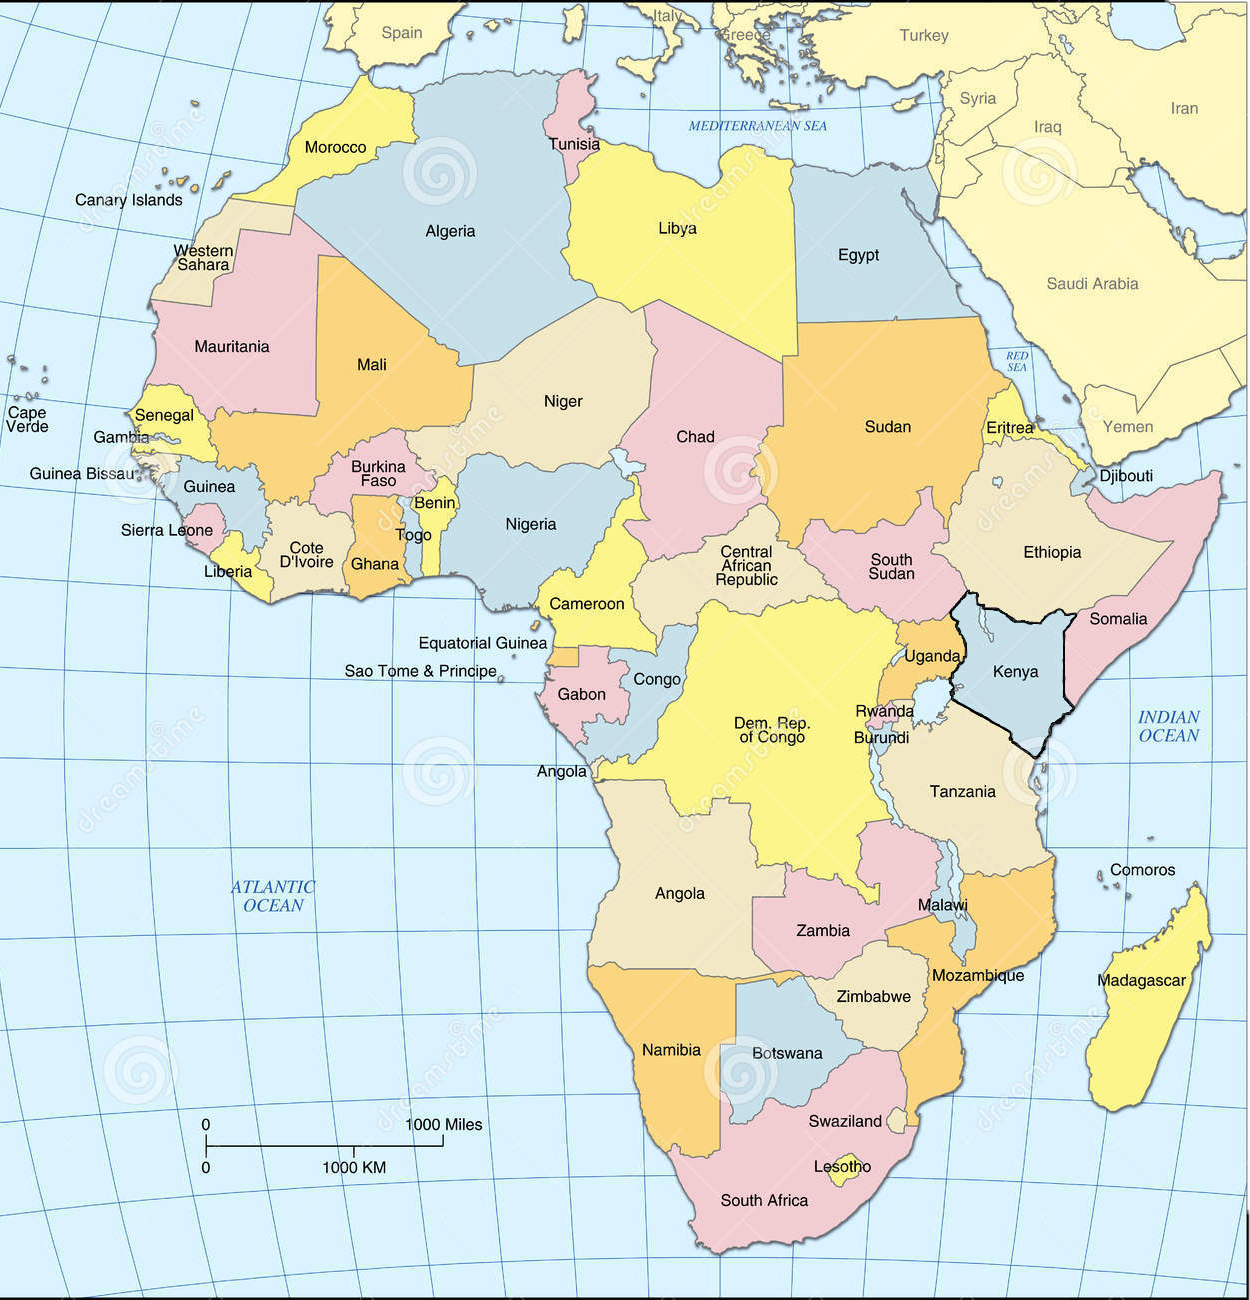
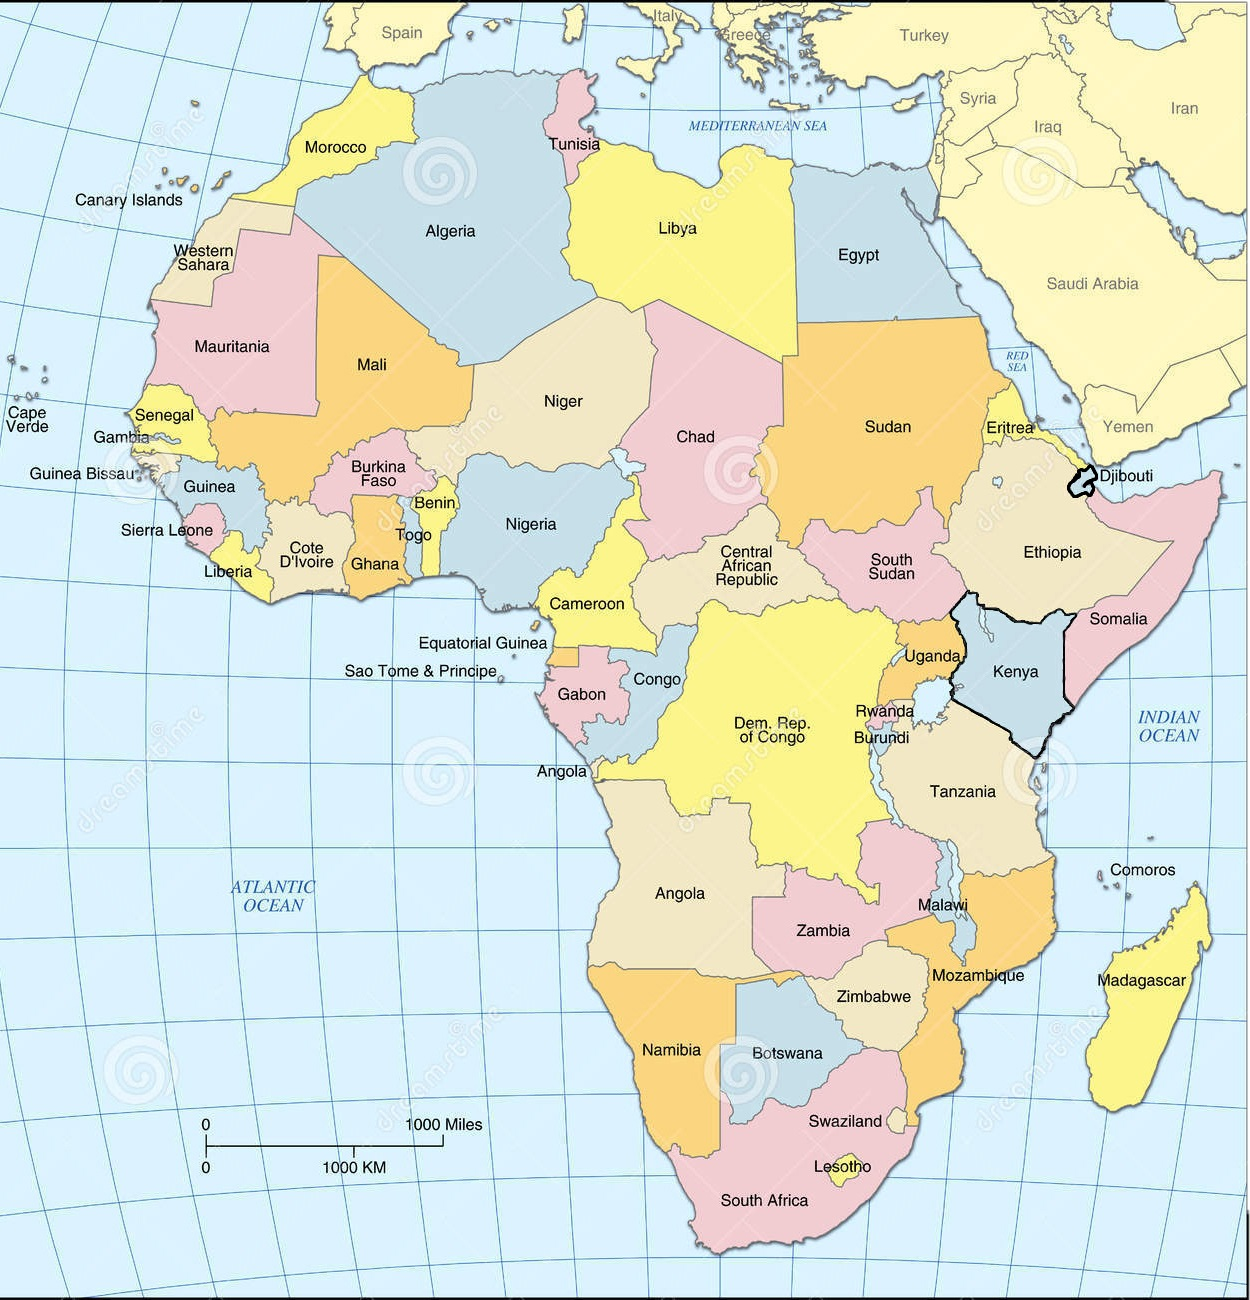
final (1)

Changed region(s): [[0.8424, 0.3385, 0.8736, 0.4], [0.78, 0.3077, 0.8112, 0.3385], [0.5928, 0.5538, 0.624, 0.5846]]

diff --git a/Géo/Djibouti.html b/Géo/Djibouti.html
@@ -1,0 +1,43 @@
+<!DOCTYPE html>
+<html>
+	<head>
+			<title>Djibouti</title>
+			<meta charset="utf8"/>
+			<link rel="stylesheet" href="StyleD.css"/>
+	</head>
+	<body>
+		<!-- Contenue sous forme de boite -->
+		<div id="content">
+			<div class="leftbox">
+				<h1>
+					Djibouti et les actionnaires chinois.
+				</h1>
+				<p>
+                    L’autorité portuaire djiboutienne et ses actionnaires de China Merchant Group (CMG),</n>
+                     ont inauguré, le 5 juillet 2019, la Djibouti Free Trade Zone (DIFTZ), qui doit devenir,</n>
+                      d’ici à 2028, la plus grande zone franche d’Afrique et nécessitera un investissement</n>
+                     global de 3,5 milliards de dollars.	
+				</p>
+				<img src="img/port.jpg" alt="port">
+			</div>
+			<div class="rightbox">
+                <img src="img/djibouti.jpg" alt="djibouti">
+                <h1>
+                    Le port de Djibouti.
+                </h1>
+				<p>
+                    Les Républiques de Chine et de Djibouti viennent de cimenter un peu plus leur partenariat économique.</n>
+                     Un an après l’ouverture du Doraleh Multi-Purpose Port (DMPP), l’autorité portuaire djiboutienne et</n>
+                      ses actionnaires de China Merchant Group (CMG) – qui la détiennent à 23,5 % -,</n>
+                    ont inauguré le 5 juillet la Djibouti Free Trade Zone (DIFTZ), située juste de l’autre côté de la baie.</n>
+
+                    Aux 580 millions de dollars (516 millions d’euros) investis en 2017 pour le DMPP,</n>
+                     s’ajoutent donc les 370 millions nécessaires à la réalisation de la première phase de 240 hectares de ce projet pharaonique.</n>
+                    La DIFTZ doit en effet devenir, d’ici à 2028, la plus grande zone franche d’Afrique avec une superficie de 4 800 hectares,</n>
+                    pour un investissement global de 3,5 milliards de dollars.
+				</p>
+			</div>
+		</div>
+	<div id="rm"><a href="index.html"><u>Menu<u/></a></div>
+	</body>
+</html>

diff --git a/Géo/Kenya.html b/Géo/Kenya.html
@@ -2,13 +2,14 @@
 <html>
 <head>
 	<title>Kenya</title>
-	<link rel="stylesheet" type="text/css" href="StyleN.css">
+	<link rel="stylesheet" type="text/css" href="StyleK.css">
 </head>
 <body>
 	<h1>Premiere investisement chinoix en Afrique : La ligne ferroviaire Nairobi à Mombasa</h1>
 		<!--<img src="img/L1.png">-->
 		<p>Nous allons tout d'abords parler de la ligne ferroviaire qui relie Nairobi la capitale du Kenya à Mombasa le plus gros port d'Afrique de l'Est.
-			La ligne Nairobi Mombasa à pour distance 472km et a une durée de trajet de 5h pour les train passagers. Cette ligne est une voix unique sur la majeur partie du trajet, mais arrêts permet le croisement des trains. Pour ce qui est des trains voyageurs le temps de trajet est divisé par deux et est deux fois moins chère que le bus.Cette ligne permet aussi de transferer les marchandises du port de Mombasa à la capitale. D'un point de vue économique, la chine shouaite construire cette ligne car elle favoriserais le commerce maritime, Le Kenya est avantagée aussi car elle permet de fluidifié la circulation des perssones au sein du pays. 
+			La ligne Nairobi Mombasa à pour distance 472km et a une durée de trajet de 5h pour les train passagers. Cette ligne est une voix unique sur la majeur partie du trajet, mais arrêts permet le croisement des trains. Pour ce qui est des trains voyageurs le temps de trajet est divisé par deux et est deux fois moins chère que le bus.Cette ligne permet aussi de transferer les marchandises du port de Mombasa à la capitale. D'un point de vue économique, la chine shouaite construire cette ligne car elle favoriserais le commerce maritime, Le Kenya est avantagée aussi car elle permet de fluidifié la circulation des persones au sein du pays. 
 		</p>
+		<div id="rm"><a href="index.html"><u>Menu<u/></a></div>
 </body>
 </html>

diff --git a/Géo/Index.html b/Géo/Index.html
@@ -15,6 +15,7 @@
 		<img src="img/Afrique2.jpg" usemap="#image-map">	
 			<map name="image-map">
     			<area target="_parent" alt="Kenya" title="Kenya" href="Kenya.html" coords="1034,756,1026,753,1018,750,1013,744,1008,739,1009,729,1000,726,992,721,985,718,975,716,970,710,956,702,964,704,947,701,952,694,952,686,952,678,952,668,958,667,964,657,964,647,962,638,956,633,955,624,951,614,952,606,957,601,963,595,970,588,978,593,979,599,989,606,996,606,1006,612,1009,619,1018,619,1025,619,1031,620,1039,624,1044,618,1049,614,1058,609,1069,612,1073,616,1066,619,1066,628,1064,634,1064,641,1064,647,1064,655,1066,666,1064,672,1062,681,1062,688,1066,695,1070,700,1072,705,1068,712,1060,720,1053,723,1049,726,1049,732,1045,741,1042,746,1040,756" shape="poly">
+    			<area target="_parent" alt="Djibouti" title="Djibouti" href="Djibouti.html" coords="1089,465,1081,467,1076,475,1069,485,1069,494,1076,494,1087,497,1089,487,1091,479,1095,471" shape="poly">
 			</map>
  	</div>
 </map>

diff --git a/Géo/Style.css b/Géo/Style.css
@@ -1,32 +1,33 @@
 html{
 	background-color: #81D4FA;
-	height: 100% 
-	white: 100%;
+	height: auto 
+	white: auto;
 }
 h1{
 	color:#A1887F;
 }
 #ul1{
 list-style-type: none;
-margin: 0;
-padding: 0;
+margin: auto;
+padding: auto;
 overflow: hidden;
 background-color: #00B0FF;
-height: 50px;
+height: auto;
 border:solid;
-margin-right: -5px;
-margin-left: -5px;
+margin-right: auto;
+margin-left: auto;
 }
 #li1{
 display: inline;
-
 }
 #aLi1{
-display: inline;
-color: white;
 text-align: center;
+margin-left: auto;
+margin-right: auto;
+margin-top: 10px;
+margin-bottom: 10px;
+color: white;
 text-decoration: none;
-margin-left: 820px;
 font-size: 25px;
 }	
 .Map img{	
@@ -35,12 +36,8 @@ font-size: 25px;
 	margin-right: auto;
 	margin-top: 10px;
 	border:solid;
-
-
 }
 #imgMap{
-	margin-left:550px;
+	margin-left:auto;
 	margin-top:10px;
-
-
 }

diff --git a/Géo/StyleD.css b/Géo/StyleD.css
@@ -1,0 +1,37 @@
+body{
+	color:burlywood;
+	margin-left: auto;
+	margin-right: auto ;
+}
+footer{
+	background-color: #333333;
+	text-align: center;
+}
+div#content div.leftbox{
+	vertical-align: top;
+	font-family:arial, sans-serif;
+	font-size:90%;
+	font-style: italic;
+}
+div#content div.leftbox p{
+	font-size: large;
+	font-family: 'Trebuchet MS', sans-serif;
+}
+div#content div.rightbox{
+	margin: 10px;
+}
+div#content div.rightbox p{
+	font-size: large;
+	font-family: 'Trebuchet MS', sans-serif;
+}
+div#content div{
+	display: inline-block;
+	width: 48%;
+}
+div#content div h1,p ,img{
+	margin: 35px;
+}
+#rm{
+	text-align: center;
+	font-size: 50px;
+}

diff --git a/Géo/StyleK.css b/Géo/StyleK.css
@@ -7,5 +7,12 @@ text-decoration: underline;
 }
 img{
 	margin-left: 550px;
-
+}
+p{
+	text-align: center;
+	font-size: 50px;
+}
+#rm{
+	text-align: center;
+	font-size: 50px;
 }
